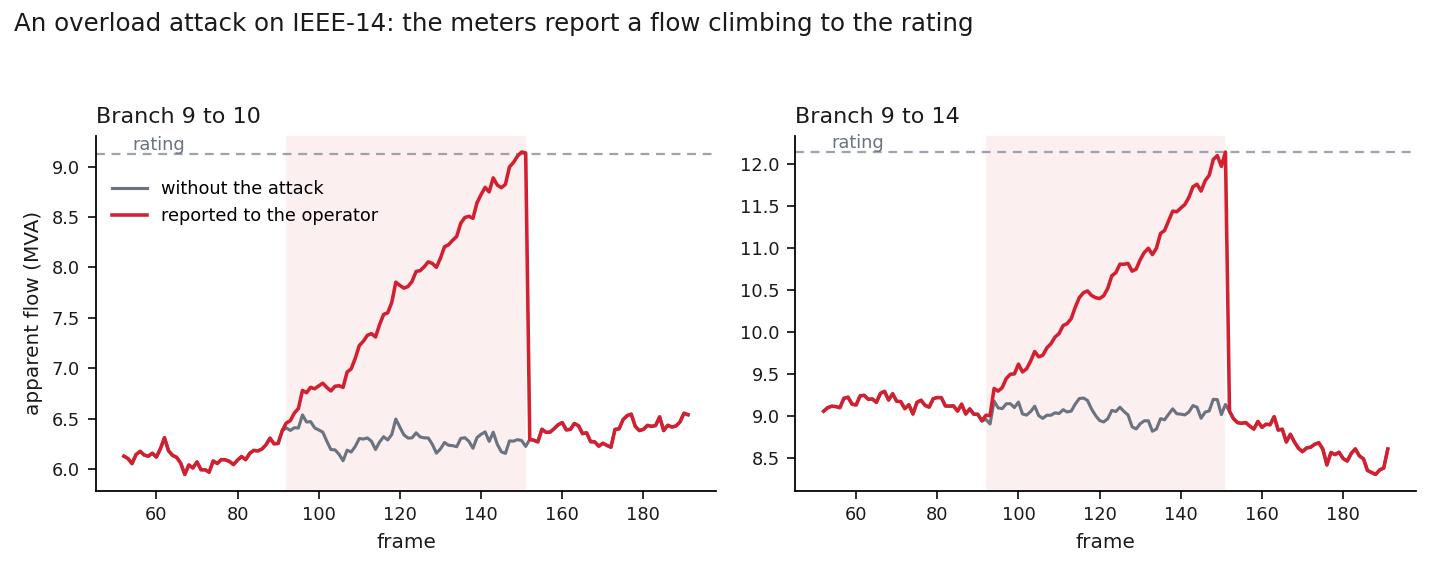
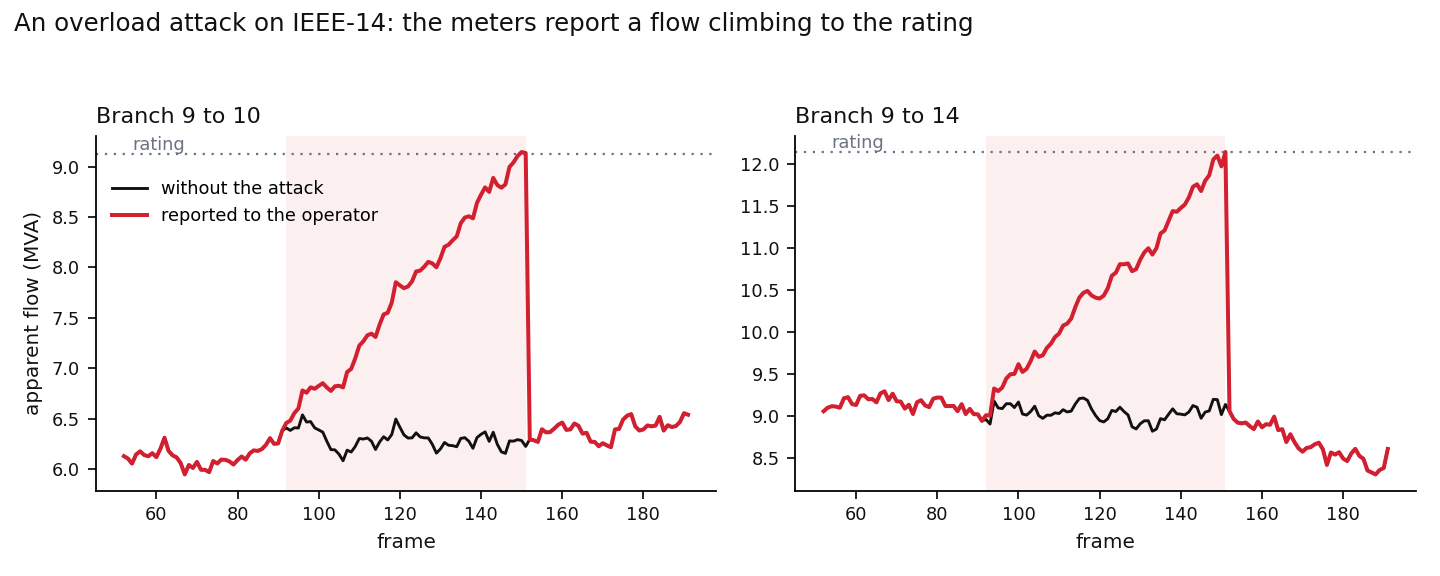
The mark sits beside the title, and the site takes the brand's colours
The README shows the mark alone above its title, and the docs landing
page leaves it out, where the header already has it. The favicon has its
own white ground. The site's header is black and its links the logo's
red. The figure and the notebook draw the flow without the attack in
black, so the two lines differ in lightness too.

diff --git a/docs/stylesheets/extra.css b/docs/stylesheets/extra.css
@@ -5,3 +5,21 @@
 .md-typeset img[src*="figures/diagrams/"]:not([src*="/classes_"]):not([src$="/modules.png"]):not([src$="/pipeline.png"]) {
   max-width: min(100%, 450px);
 }
+
+/* The brand's colours (docs/figures/brand): a black header, and the logo's red for links and accents.
+   On the dark scheme the red is lighter, so that link text keeps its contrast. */
+:root,
+[data-md-color-scheme="default"] {
+  --md-primary-fg-color: #000000;
+  --md-primary-fg-color--light: #333333;
+  --md-primary-fg-color--dark: #000000;
+  --md-primary-bg-color: #ffffff;
+  --md-accent-fg-color: #d22030;
+  --md-typeset-a-color: #b81c2a;
+}
+[data-md-color-scheme="slate"] {
+  --md-primary-fg-color: #000000;
+  --md-primary-bg-color: #ffffff;
+  --md-accent-fg-color: #ff6b78;
+  --md-typeset-a-color: #ff8a94;
+}

diff --git a/examples/first_look.py b/examples/first_look.py
@@ -26,7 +26,7 @@ from fdia_graph import schema
 
 FRAMES, SEED = 600, 123
 BEFORE, AFTER = 40, 40  # frames shown on each side of the attack window
-INK, MUTED, ATTACK, LIMIT = "#1a1a1a", "#6b7280", "#D22030", "#9ca3af"
+INK, MUTED, ATTACK = "#111111", "#6b7280", "#D22030"  # black for the flow without the attack, red for the reported one
 
 
 def apparent(flows: np.ndarray) -> np.ndarray:
@@ -50,9 +50,9 @@ def main(out: str) -> None:
     fig, axes = plt.subplots(1, len(lines), figsize=(9.0, 3.6), dpi=160, sharex=True)
     for ax, k in zip(axes, range(len(lines))):
         ax.axvspan(onset, onset + length - 1, color=ATTACK, alpha=0.07, lw=0)
-        ax.axhline(ratings[k], color=LIMIT, lw=1.0, ls=(0, (4, 3)))
-        ax.plot(t, without[:, k], color=MUTED, lw=1.4, label="without the attack")
-        ax.plot(t, reported[:, k], color=ATTACK, lw=1.6, label="reported to the operator")
+        ax.axhline(ratings[k], color=MUTED, lw=1.0, ls=(0, (1, 3)))
+        ax.plot(t, without[:, k], color=INK, lw=1.3, label="without the attack")
+        ax.plot(t, reported[:, k], color=ATTACK, lw=1.8, label="reported to the operator")
         ax.text(t[2], ratings[k], "rating", color=MUTED, fontsize=8, va="bottom")
         # IEEE-14 numbers its buses in order from one, so a bus number is its position plus one
         ax.set_title(f"Branch {int(ends[k, 0]) + 1} to {int(ends[k, 1]) + 1}", fontsize=10, color=INK, loc="left")

diff --git a/tools/site_index.py b/tools/site_index.py
@@ -2,7 +2,9 @@
 docs/index.md, CONTRIBUTING.md docs/contributing.md and CHANGELOG.md docs/changelog.md. The
 README is the single source for the landing page; its links carry a docs/ prefix that is wrong
 once the file lives inside docs_dir, so the prefix is stripped on copy, and links between the
-three root pages are rewritten to their staged names. Runs in the Vercel build (vercel.json) and
+three root pages are rewritten to their staged names. The README's leading `<picture>` (the logo,
+switched by the reader's system theme) is left out of the landing page: the site's header carries
+the logo, and the site's own light and dark switch would not move the picture. Runs in the Vercel build (vercel.json) and
 in the versioned deploy (.github/workflows/docs.yml); the three staged files are generated output
 and stay untracked.
 """
@@ -16,6 +18,8 @@ ROOT_PAGES = {"README.md": "index.md", "CONTRIBUTING.md": "contributing.md", "CH
 for source, staged in ROOT_PAGES.items():
     text = (root / source).read_text(encoding="utf-8")
     text = re.sub(r"\]\(docs/", "](", text)
+    if source == "README.md":
+        text = re.sub(r"\A<picture>.*?</picture>\s*", "", text, flags=re.S)
     for other, other_staged in ROOT_PAGES.items():
         text = re.sub(
             r"\]\((?:\./)?" + re.escape(other) + r"(#[^)]*)?\)", r"](" + other_staged + r"\1)", text

diff --git a/docs/reference/MODULES.md b/docs/reference/MODULES.md
@@ -188,7 +188,7 @@ What every folder of the repository holds, then what every Python file does, in 
 | `tools/release.py` | Cut a package release after the version-bump PR has merged (CONTRIBUTING.md, "Releasing"). |
 | `tools/render_mermaid.py` | Render a Mermaid source file to a standalone SVG and a PNG next to it. Every diagram in the docs is such a rendered image, because the README is also the PyPI page and the docs are read in the GitHub mobile app, and neither renders a Mermaid block. |
 | `tools/results_docs.py` | Fill and check the results blocks of the docs from the results store (`results/`). |
-| `tools/site_index.py` | Stage the three root pages of the repository for the docs site: README.md becomes docs/index.md, CONTRIBUTING.md docs/contributing.md and CHANGELOG.md docs/changelog.md. The README is the single source for the landing page; its links carry a docs/ prefix that is wrong once the file lives inside docs_dir, so the prefix is stripped on copy, and links between the three root pages are rewritten to their staged names. Runs in the Vercel build (vercel.json) and in the versioned deploy (.github/workflows/docs.yml); the three staged files are generated output and stay untracked. |
+| `tools/site_index.py` | Stage the three root pages of the repository for the docs site: README.md becomes docs/index.md, CONTRIBUTING.md docs/contributing.md and CHANGELOG.md docs/changelog.md. The README is the single source for the landing page; its links carry a docs/ prefix that is wrong once the file lives inside docs_dir, so the prefix is stripped on copy, and links between the three root pages are rewritten to their staged names. The README's leading `<picture>` (the logo, switched by the reader's system theme) is left out of the landing page: the site's header carries the logo, and the site's own light and dark switch would not move the picture. Runs in the Vercel build (vercel.json) and in the versioned deploy (.github/workflows/docs.yml); the three staged files are generated output and stay untracked. |
 | `tools/sources.py` | Where the repository's two toolkits live, said once for every tool: the generation toolkit `fdia_graph` and the analysis toolkit `fdia_analysis`, each a package under its own source root. |
 | `tools/upload_assets.py` | Publish data-release assets to a GitHub release (CONTRIBUTING.md, "Releasing", data releases). |
 

diff --git a/README.md b/README.md
@@ -1,6 +1,6 @@
 <picture>
-  <source media="(prefers-color-scheme: dark)" srcset="https://raw.githubusercontent.com/myersben9/fdia-graph/main/docs/figures/brand/logo-dark.svg">
-  <img src="https://raw.githubusercontent.com/myersben9/fdia-graph/main/docs/figures/brand/logo.svg" alt="fdia-graph" height="56">
+  <source media="(prefers-color-scheme: dark)" srcset="https://raw.githubusercontent.com/myersben9/fdia-graph/main/docs/figures/brand/mark-white.svg">
+  <img src="https://raw.githubusercontent.com/myersben9/fdia-graph/main/docs/figures/brand/mark.svg" alt="" height="64">
 </picture>
 
 # fdia-graph
@@ -17,7 +17,7 @@ injection attacks (FDIA) in them, and labels the buses each attack targets. The 
 every attack it makes on the AC power-flow equations, around the buses it targets. Download a ready
 timeline, or generate your own.
 
-<img src="https://raw.githubusercontent.com/myersben9/fdia-graph/main/docs/figures/first_look.png" width="720" alt="Two panels, one per target branch of an overload attack on IEEE-14, apparent flow in MVA against the frame. Outside the attack window the reported flow follows the flow without the attack. Inside the 60-frame window the reported flow climbs steadily to the branch's rating, shown as a dashed line, while the flow without the attack stays level.">
+<img src="https://raw.githubusercontent.com/myersben9/fdia-graph/main/docs/figures/first_look.png" width="720" alt="Two panels, one per target branch of an overload attack on IEEE-14, apparent flow in MVA against the frame. Outside the attack window the reported flow follows the flow without the attack. Inside the 60-frame window the reported flow climbs steadily to the branch's rating, shown as a dotted line, while the flow without the attack stays near where it was.">
 
 One overload attack in a generated IEEE-14 timeline, as an operator would see it. Over 60 frames the
 flow meters of two branches report a flow that climbs to the rating, while the flow without the

diff --git a/CHANGELOG.md b/CHANGELOG.md
@@ -5,11 +5,12 @@ the public API, the generated files and the numbers are the same as the previous
 
 ## Unreleased
 
-- **A logo (docs only).** The project has a mark: a small network of four buses with one filled in
-  red. `docs/figures/brand/` holds it with the wordmark for light and dark backgrounds, and alone.
-  It is at the top of the README, and the docs site uses it as its header logo and favicon with a
-  black and red palette. The README's figure and the demo notebook draw the reported flow in the same
-  red.
+- **A logo (docs and examples; no package code changes).** The project has a mark: a small network
+  of four buses with one filled in red. `docs/figures/brand/` holds it alone, with the wordmark for
+  light and dark backgrounds, and as a favicon. It is above the title of the README, and the docs
+  site uses it as its header logo and favicon, with a black header and red links. The README's figure
+  and the demo notebook draw the reported flow in the same red and the flow without the attack in
+  black, so the two lines differ in lightness as well as in hue.
 
 - **A first screen for the README (docs and examples; no package code changes).** The README opens
   with its PyPI, Python, test and license badges, one line and a short paragraph on what the package
